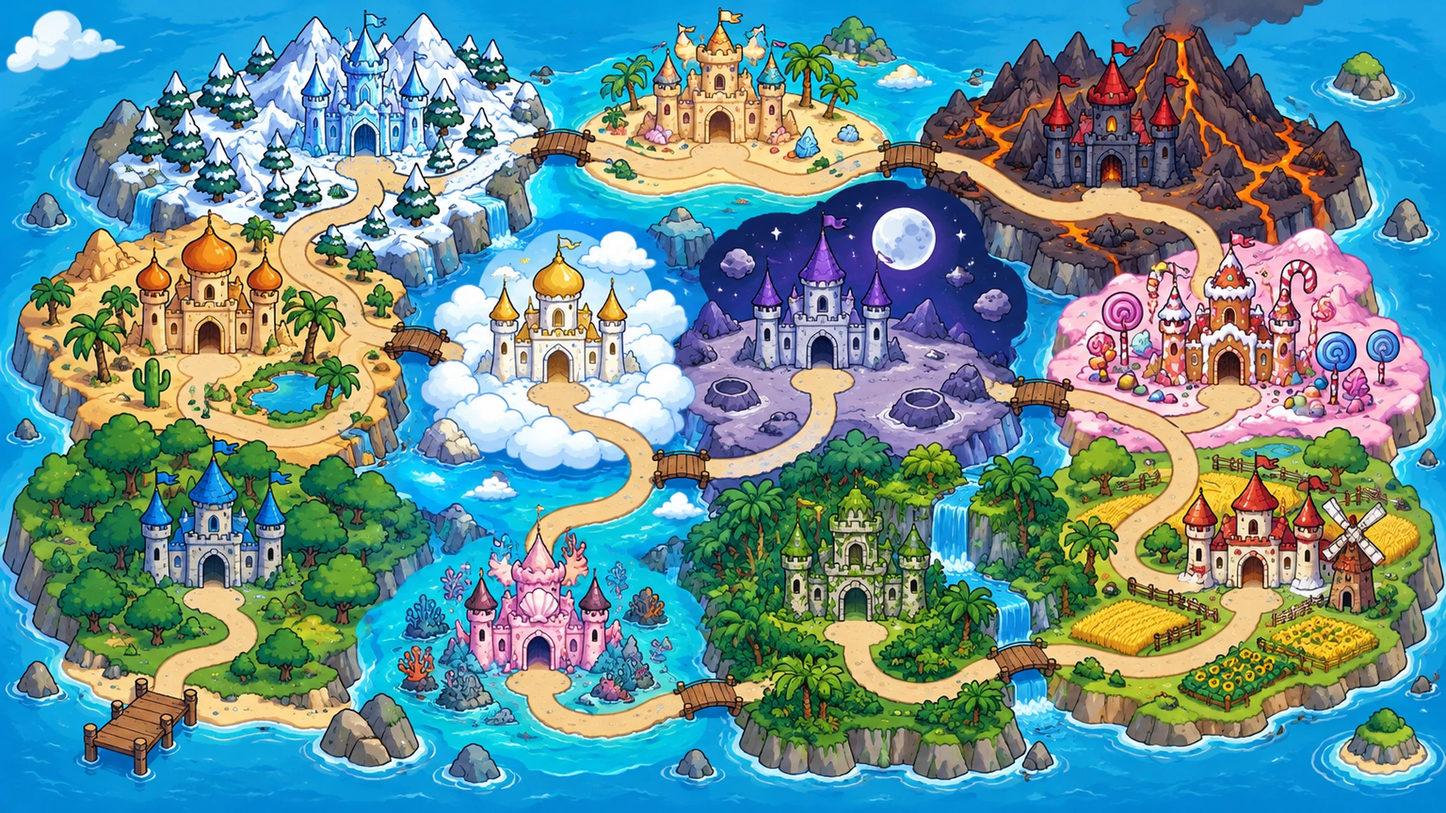
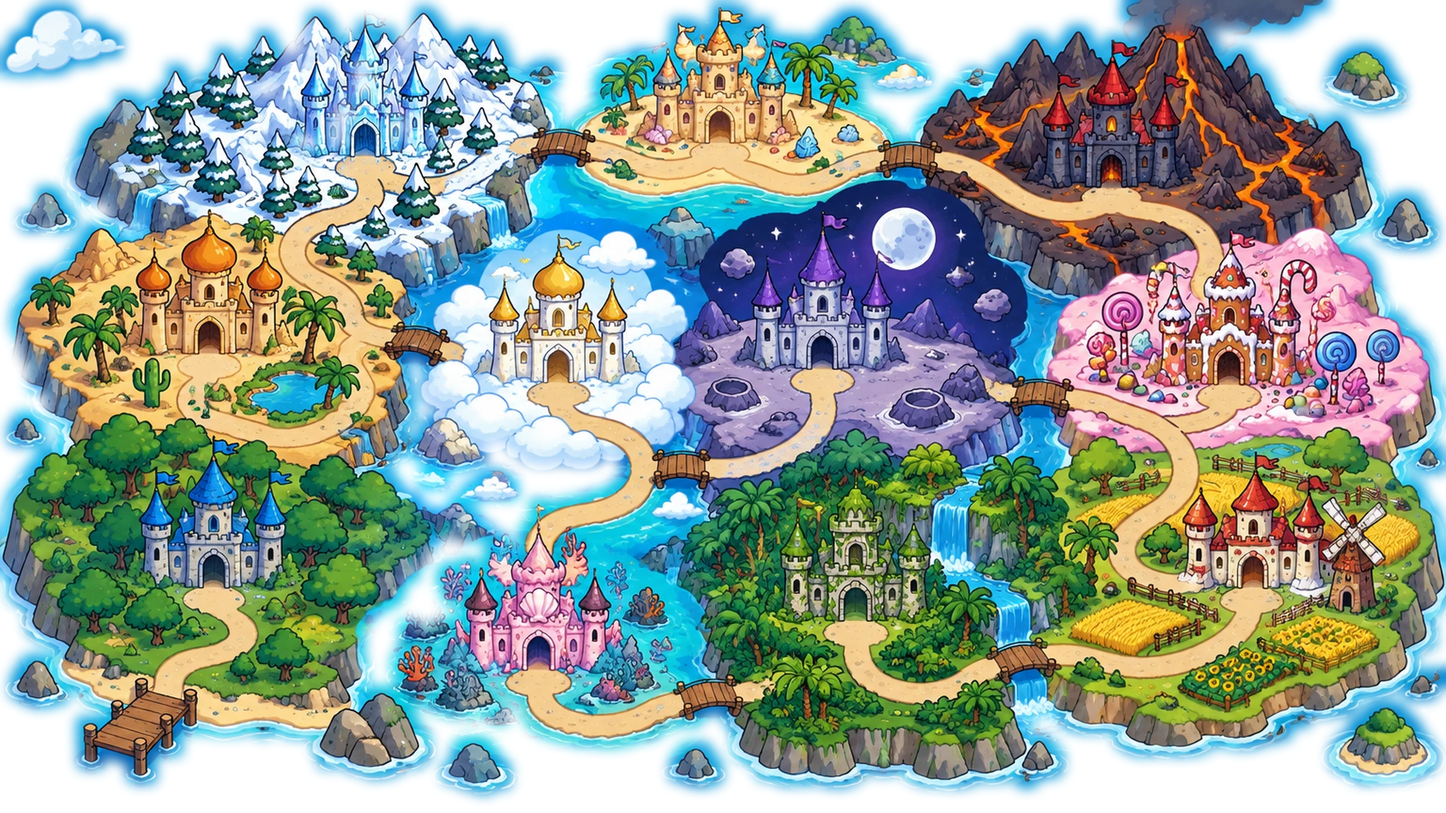
Castelul map: cut the island out of its sea so no rectangle edge shows (#82)
Claude-Session: https://claude.ai/code/session_016fNXyxu9U2zyHjQozgnxy4

Changed region(s): [[0.0, 0.0, 1.0, 0.6562], [0.0, 0.4375, 1.0, 1.0], [0.3125, 0.7812, 0.3438, 0.8125]]

diff --git a/src/tower/tower.css b/src/tower/tower.css
@@ -1032,8 +1032,3 @@
   background: #22b573;
   color: #fff;
 }
-.td-painted .td-painted-img {
-  filter: none;
-  -webkit-mask-image: radial-gradient(ellipse 60% 62% at 50% 50%, #000 80%, transparent 100%);
-  mask-image: radial-gradient(ellipse 60% 62% at 50% 50%, #000 80%, transparent 100%);
-}
